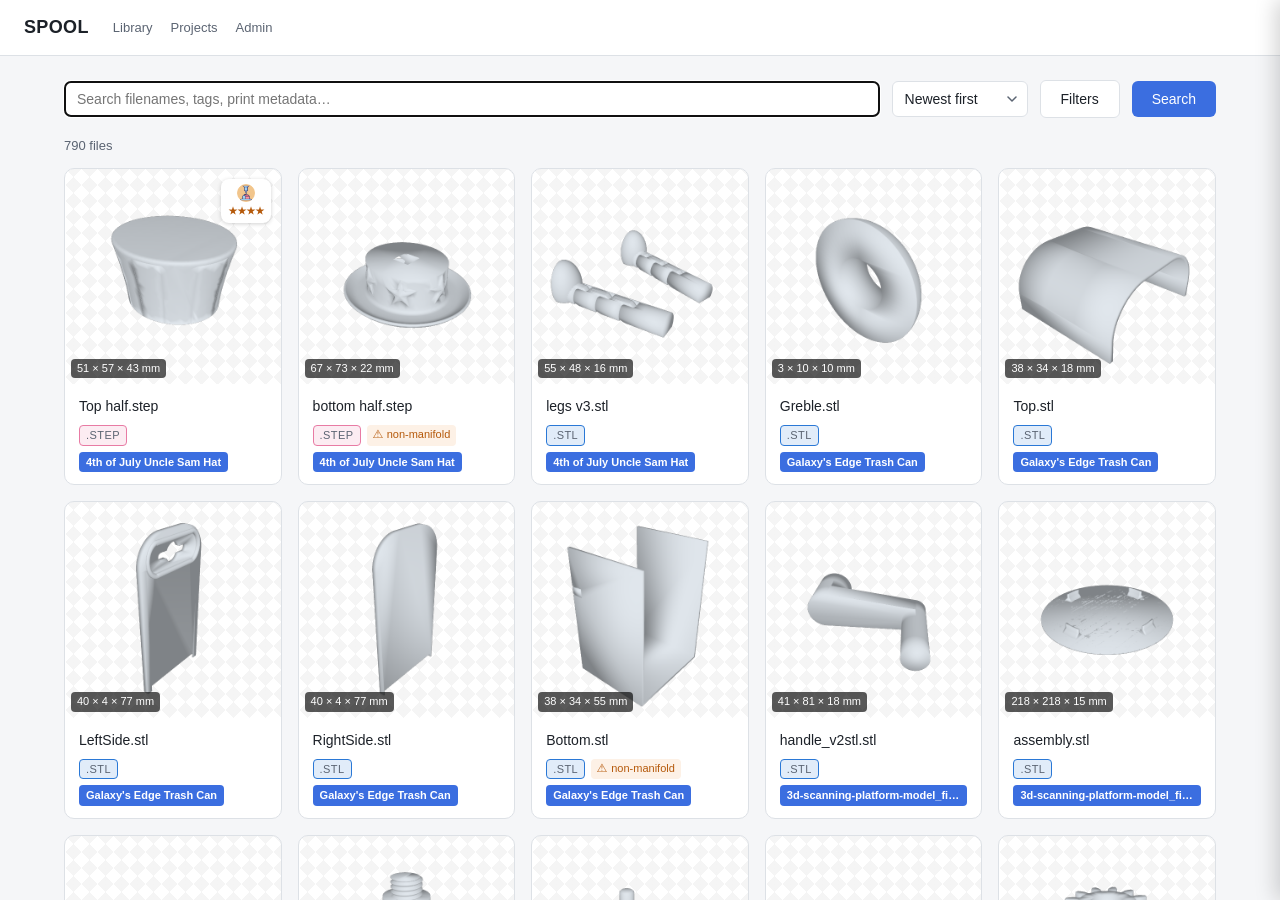
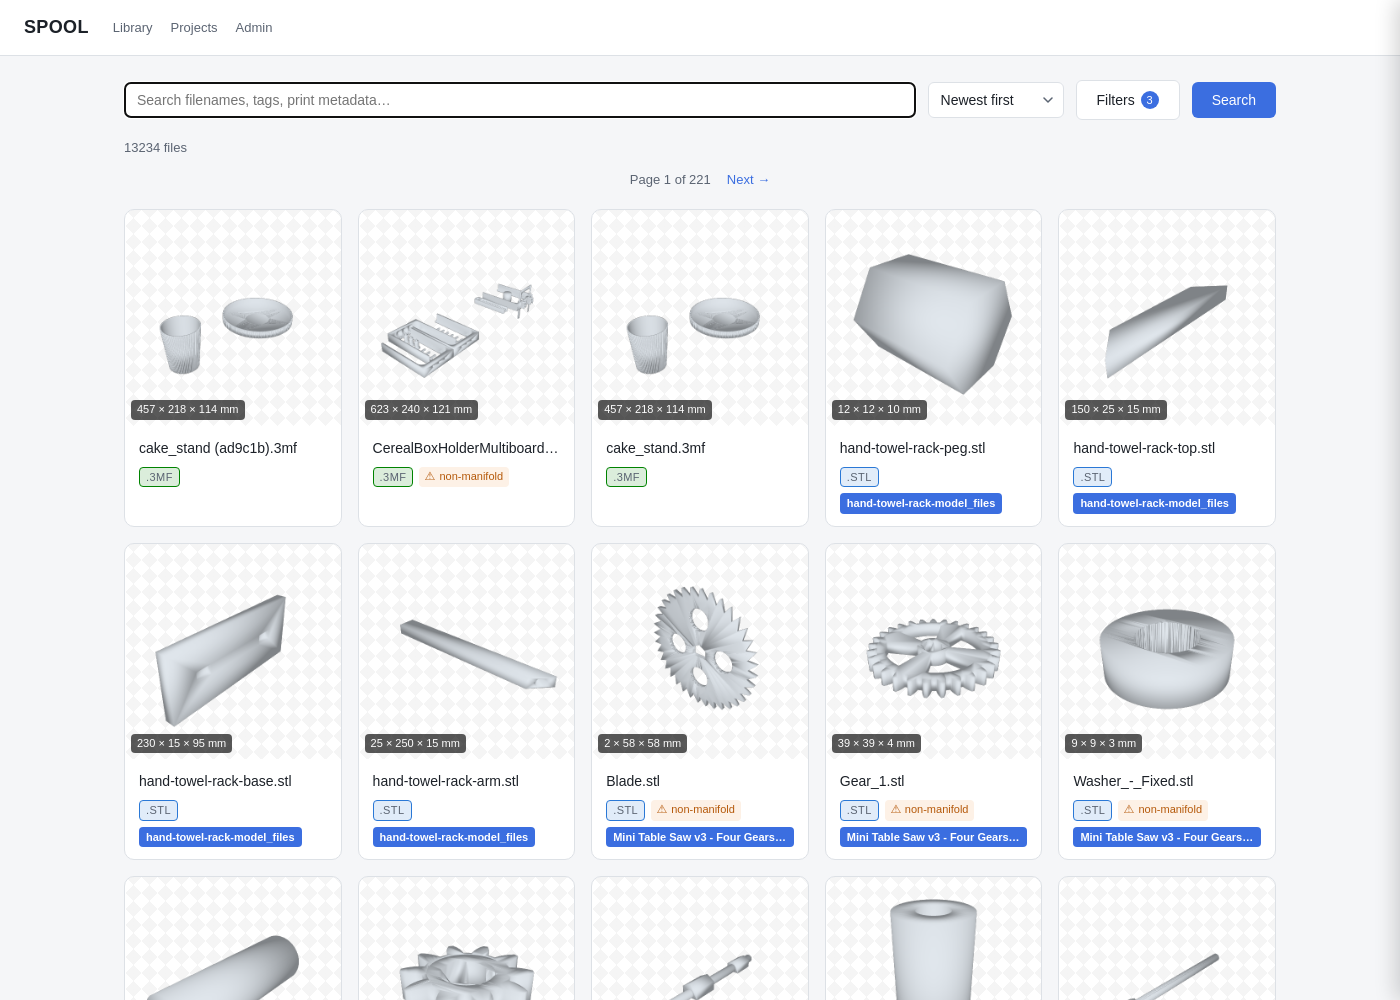
Update README for beginners, refresh screenshot, mention new features
Rewrote the setup section as explicit numbered steps for someone who's
never used Terminal or Docker before (opening Terminal, installing
Docker Desktop, getting the code, editing .env with concrete examples,
checking each step succeeded) rather than assuming that background.
Also updated the feature list and known-limitations section for .7z/
.rar archive support and separator-insensitive search, bumped the test
count to 296, and swapped in a fresh library screenshot from the real
current library.

Claude-Session: https://claude.ai/code/session_01Ww8rVnHfzcntrAGRYsSKmk

diff --git a/README.md b/README.md
@@ -22,16 +22,18 @@ Fusion or Bambu Studio — no more digging through folders full of
   cleanly.
 - **Search and browse** — search-as-you-type across filenames, tags, and
   print metadata (material, printer, slicer, your own print notes), filter by
-  extension, color-coded by file type.
+  extension, color-coded by file type. Hyphens, underscores, and spaces are
+  treated as the same thing, so searching "cake stand" finds a file
+  literally named `cake_stand.stl`.
 - **Tags, nestable projects, print metadata** — organize files by hand, or
   let SPOOL auto-suggest a project for files that share a folder.
 - **Relationships** — link a STEP file to the STL exported from it, or a part
   to its next revision, with auto-suggested `duplicate_of` /
   `new_version_of` / `derived_from` detection based on content hash and
   filename patterns.
-- **Zip review** — a `.zip` containing a recognized model file gets surfaced
-  for you to confirm or dismiss before anything is extracted; nothing
-  unrelated to 3D printing is ever touched.
+- **Archive review** — a `.zip`, `.7z`, or `.rar` containing a recognized
+  model file gets surfaced for you to confirm or dismiss before anything is
+  extracted; nothing unrelated to 3D printing is ever touched.
 - **Duplicate cleanup** — files with byte-identical content are grouped for
   review, with bulk select/delete.
 - **Printed tracker** — mark a file as printed, rate it, and leave yourself
@@ -42,63 +44,176 @@ Fusion or Bambu Studio — no more digging through folders full of
 
 ## Requirements
 
-- macOS (the native host-helper piece is Mac-specific — everything else is
-  just Docker)
-- Docker Desktop
-- Python 3.9+ on the host, only if you want to run the test suite
+- A Mac (the native host-helper piece that launches Fusion/Bambu Studio is
+  Mac-specific — everything else is just Docker)
+- Docker Desktop (free — see step 1 below)
+- Python 3.9+ on the host, only if you want to run the test suite (most
+  people setting this up just to use it can skip this entirely)
 
 ## Setting up on your own machine
 
-1. **Configure your folders.** Copy `.env.example` to `.env` and fill in the
-   three real paths on your Mac — a drop folder for new prints, your
-   existing library, and Downloads (auto-relocated into the drop folder).
-   Also change `POSTGRES_PASSWORD` from the placeholder.
+These steps assume you've never used Terminal or Docker before — if you
+already have, skip ahead freely. Every command below is meant to be copied
+and pasted exactly as written, one at a time, pressing Return after each.
 
-   ```bash
-   cp .env.example .env
-   ```
+### Step 0: Open Terminal
 
-2. **Bring up the stack.**
+Terminal is the app you'll paste commands into. Open it with
+**Spotlight**: press `Cmd + Space`, type `Terminal`, press Return. A window
+with a text prompt appears — that's it, that's Terminal. Leave it open;
+every command in these instructions gets typed (or pasted) there.
 
-   ```bash
-   docker compose up -d --build        # bring up postgres, api, watcher, worker
-   docker compose ps                   # check health
-   curl localhost:8000/health          # confirm api <-> postgres
-   ```
+### Step 1: Install Docker Desktop
 
-   Then open `http://localhost:8000`. Your three folders from `.env` are
-   seeded as watched roots automatically — but only on a genuinely fresh
-   `pgdata` volume (first-ever `docker compose up`). If you change the paths
-   in `.env` later, edit the roots directly on the `/admin` page instead —
-   re-running `docker compose up` won't re-seed an existing database.
+SPOOL runs inside Docker, which keeps everything it needs (the database,
+the web server, etc.) neatly contained instead of installed loose on your
+Mac.
 
-3. **Install the host-helper** (native, not Docker — a Linux container can't
-   launch a macOS GUI app, so this one piece runs directly on your Mac as a
-   launchd agent):
+1. Go to <https://www.docker.com/products/docker-desktop/> and download
+   Docker Desktop for Mac (pick Apple Silicon or Intel — if you're not
+   sure which, click the Apple logo top-left → "About This Mac" and check
+   the chip listed there).
+2. Open the downloaded file and drag Docker into Applications, same as
+   any other Mac app.
+3. Open Docker Desktop from Applications. The first launch asks for a
+   few permissions — accept them. Wait until the little whale icon in
+   your menu bar (top of the screen) stops animating and Docker Desktop's
+   own window says it's running. **Docker Desktop needs to be open and
+   running every time you use SPOOL** — if the whale icon isn't in your
+   menu bar, SPOOL won't work until you open Docker Desktop again.
 
-   ```bash
-   host-helper/install.sh
-   ```
+### Step 2: Get the SPOOL code onto your Mac
 
-   It reads the same three paths from `.env`, so run this *after* step 1.
-   Open `host-helper/host_helper.py` first and check `APP_MAP` — it's
-   hardcoded to Autodesk Fusion + Bambu Studio (this project's own setup);
-   change it to whichever CAD/slicer apps you actually use, using their real
-   `.app` bundle name, not the marketing name (`ls ~/Applications /Applications`
-   — e.g. Autodesk's own app is `Autodesk Fusion.app` under `~/Applications`,
-   not `/Applications`, and Bambu's is `BambuStudio.app`, no space — `open -a`
-   only matches the real bundle name). Re-run `install.sh` any time you edit
-   `host_helper.py` or `.env`.
+If you were sent a link to this project's GitHub page: click the green
+**Code** button, then **Download ZIP**. Once it downloads, double-click the
+ZIP file in your Downloads folder to unzip it, then drag the resulting
+folder somewhere you'll remember (your Documents folder is a good choice).
 
-4. **Grant macOS permissions for the duplicate-delete feature.** "Open in
-   app" works with no extra setup — it just hands off to macOS's own
-   LaunchServices. Actually *deleting* a file (the duplicate-files admin
-   page) needs real filesystem access, which macOS's privacy protections
-   (TCC) block by default for a launchd-spawned process. If a delete fails
-   with "Operation not permitted", grant Full Disk Access to
-   `/usr/bin/python3` in **System Settings → Privacy & Security → Full Disk
-   Access** (one-time, can't be scripted). Everything else — including
-   host-helper starting up and "Open in app" — works without this.
+Now tell Terminal to work inside that folder — type `cd ` (with a trailing
+space), then drag the folder itself from Finder into the Terminal window
+(this pastes its full path in automatically), then press Return. Your
+prompt should now show the folder's name, confirming you're "in" it.
+
+(If you're comfortable with git instead: `git clone <the repo URL>` and
+`cd` into the folder it creates.)
+
+### Step 3: Tell SPOOL which folders to watch
+
+SPOOL needs to know three real folders on your Mac: a "drop folder" for
+new downloads, your existing 3D print library, and your Downloads folder.
+These are set in a file called `.env`, which doesn't exist yet — you copy
+it from a template.
+
+Paste this into Terminal and press Return:
+
+```bash
+cp .env.example .env
+```
+
+Nothing appears to happen — that's normal, it just means it worked. Now
+open the new `.env` file in TextEdit by pasting this and pressing Return:
+
+```bash
+open -e .env
+```
+
+You'll see a handful of lines like `DROPFOLDER_HOST_PATH=...`. Edit the
+three `_HOST_PATH` lines to real folders on your Mac — for example:
+
+```
+DROPFOLDER_HOST_PATH=/Users/yourname/Documents/3DPrintFiles
+LIBRARY_HOST_PATH=/Users/yourname/Documents/3D Printing
+DOWNLOADS_HOST_PATH=/Users/yourname/Downloads
+```
+
+(Tip: if a folder doesn't exist yet, create it in Finder first — Docker
+needs the real folder to already be there.) Also change
+`POSTGRES_PASSWORD` from the placeholder to anything else — it's just a
+password for the database SPOOL keeps on your own Mac, not something you
+need to remember or share. Save the file (`Cmd + S`) and close TextEdit.
+
+### Step 4: Start SPOOL
+
+Back in Terminal, paste this and press Return:
+
+```bash
+docker compose up -d --build
+```
+
+This downloads and builds everything SPOOL needs — the first time, it can
+take several minutes (you'll see a lot of text scroll by; that's normal).
+When it finishes and gives you a new prompt, check that everything started
+correctly:
+
+```bash
+docker compose ps
+```
+
+You should see five services (`postgres`, `api`, `watcher`, `worker`,
+`worker-step`) all saying `running` or `Up`. Then open a web browser and
+go to:
+
+```
+http://localhost:8000
+```
+
+You should see SPOOL's search page. Your three folders from `.env` start
+being indexed automatically in the background — if they contain a lot of
+files, thumbnails will keep appearing over the next while as SPOOL works
+through them, no action needed from you.
+
+*(If you ever change a folder path in `.env` later, editing the file
+alone won't update an already-running SPOOL — go to the `/admin` page in
+the browser and edit the path there instead.)*
+
+### Step 5: Install the host-helper (lets SPOOL open files in Fusion/Bambu Studio)
+
+Everything above runs inside Docker, which — deliberately, for safety —
+can't reach out and open another app on your actual Mac. One small
+separate helper program handles just that piece; it's not Docker, it's a
+tiny program that starts automatically in the background whenever you log
+in to your Mac.
+
+First, open `host-helper/host_helper.py` (find it in Finder, inside the
+SPOOL folder, and open it with TextEdit) and look for a section called
+`APP_MAP`. It's currently set up for this project's own apps (Autodesk
+Fusion and Bambu Studio) — if you use different CAD or slicer software,
+change the app names there to match. The name has to be the *exact* file
+name of the app as it sits in your Applications folder, not its display
+name — to check, paste this in Terminal:
+
+```bash
+ls ~/Applications /Applications
+```
+
+and use exactly what's printed there (e.g. some apps are named slightly
+differently than you'd expect — "Autodesk Fusion.app", not
+"Fusion 360.app"). Save and close the file if you changed anything, then
+run:
+
+```bash
+host-helper/install.sh
+```
+
+If you ever edit `host_helper.py` or `.env` again later, re-run that same
+command to pick up the change.
+
+### Step 6: One-time permission for deleting duplicate files
+
+Everything works right away except one specific feature: actually
+deleting a file from the duplicate-files review page (opening a file in
+Fusion/Bambu Studio needs no extra setup). If you try to delete a
+duplicate and see "Operation not permitted," macOS is blocking it for
+safety. To allow it, only once:
+
+1. Open **System Settings**.
+2. Go to **Privacy & Security → Full Disk Access**.
+3. Click the **+** button, press `Cmd + Shift + G` to open the "Go to
+   folder" box, type `/usr/bin`, press Return, then select `python3` and
+   add it.
+
+That's it — SPOOL is fully set up. Bookmark `http://localhost:8000` and
+come back to it any time Docker Desktop is running.
 
 ### Day-to-day
 
@@ -145,10 +260,10 @@ Tests run on the host (not in a container) against a real, separate
   database** — the seed only runs once, against a brand-new `pgdata`
   volume. Update the path on the `/admin` page instead (and re-run
   `host-helper/install.sh` if it's one of the delete-allowlist paths).
-- **Zip files can't be extracted from your Library folder.** It's mounted
+- **Archives can't be extracted from your Library folder.** It's mounted
   read-only (an "existing library" root is never supposed to be written
-  to) — confirming a zip found there will fail with a permissions error in
-  Admin, by design. Extract it yourself, or drop the zip in your drop
+  to) — confirming a zip/7z/rar found there will fail with a permissions
+  error in Admin, by design. Extract it yourself, or drop it in your drop
   folder instead.
 - **Don't point a watched root at a folder under iCloud Drive sync (e.g.
   anywhere inside `~/Documents` or `~/Desktop` if "Desktop & Documents
@@ -176,7 +291,7 @@ Nine build phases done — ingestion, mesh + STEP + SVG previews, browse/search,
 tags/projects/print metadata, relationships, drift reconciliation, the native
 open-in-app helper, and a growing backlog of quality-of-life features (search
 across print metadata, duplicate cleanup, a printed/rating tracker, and more).
-136 automated tests covering the ingestion pipeline and the API. Runnable on
+296 automated tests covering the ingestion pipeline and the API. Runnable on
 someone else's Mac — watched-root paths are configured via `.env`, not
 hardcoded — aside from a one-line `APP_MAP` edit in `host_helper.py` for
 whichever CAD/slicer apps you actually use (see setup instructions above).
